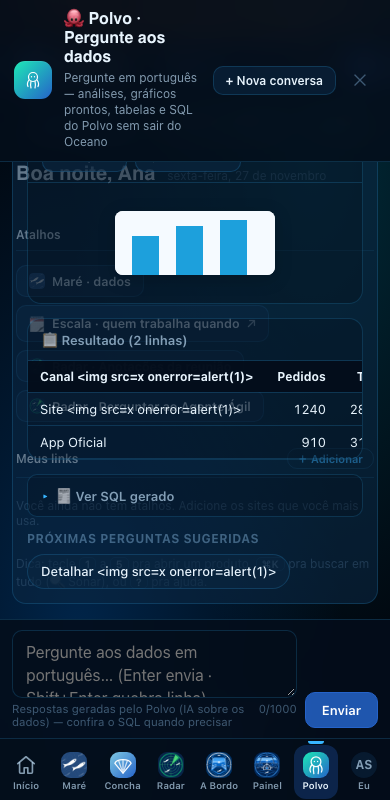
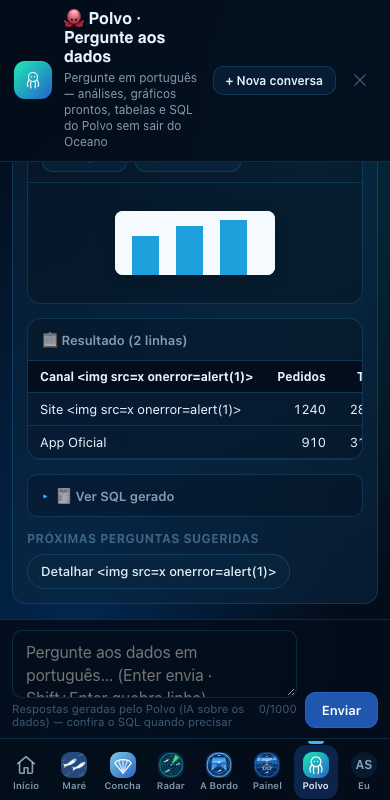
fix(oceano): corrigir fundo de #polvo nos temas Abrolhos e Entardecer
Agent: antigravity

diff --git a/oceano-dev.html b/oceano-dev.html
@@ -483,7 +483,7 @@ body.rail-larga .rail-it .rail-n{top:50%;right:10px;transform:translateY(-50%);}
   .rail-it[aria-current="page"]::before{left:14px;right:14px;top:-4px;bottom:auto;width:auto;height:3px;border-radius:0 0 3px 3px;}
 }
 /* ═══ 🐙 POLVO · PERGUNTE AOS DADOS (piloto ADM, vista ampla ao lado do #rail) ═══ */
-#polvo{position:fixed;top:0;right:0;bottom:0;left:var(--rail-w,0px);z-index:105;display:none;flex-direction:column;background:var(--ocean),var(--deep);color:var(--txt);transition:left .18s ease;}
+#polvo{position:fixed;top:0;right:0;bottom:0;left:var(--rail-w,0px);z-index:105;display:none;flex-direction:column;background:var(--ocean);background-color:var(--deep);color:var(--txt);transition:left .18s ease;}
 #polvo.on{display:flex;}
 body.com-rail #polvo{left:var(--rail-w);}
 .polvo-hd{display:flex;align-items:center;gap:12px;padding:max(12px,env(safe-area-inset-top)) 20px 12px;background:rgba(var(--deep-rgb),.86);backdrop-filter:blur(16px);-webkit-backdrop-filter:blur(16px);border-bottom:1px solid var(--glass-b);flex:none;}
